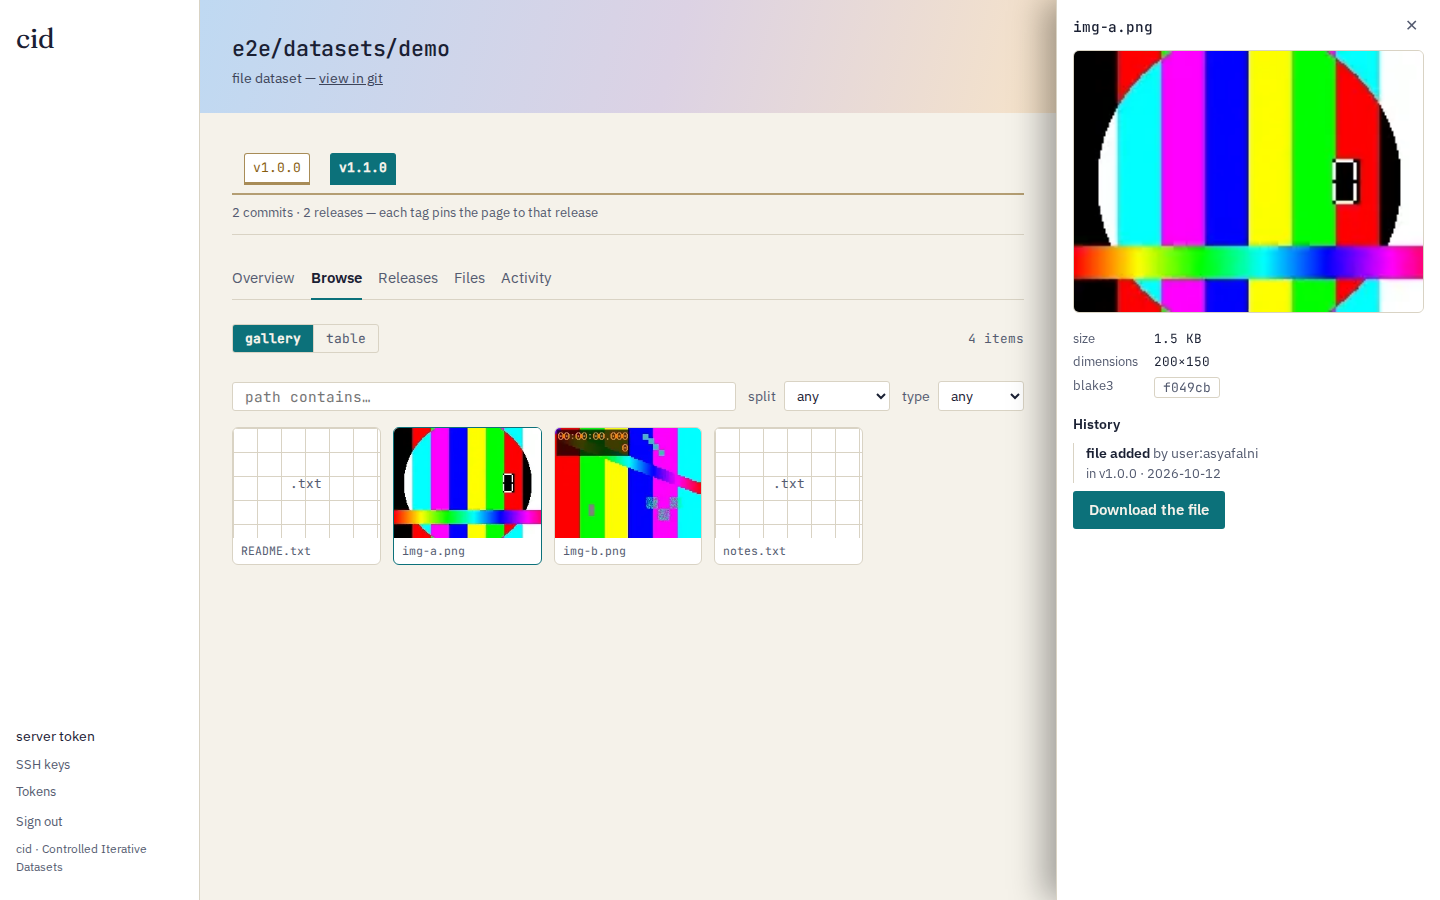
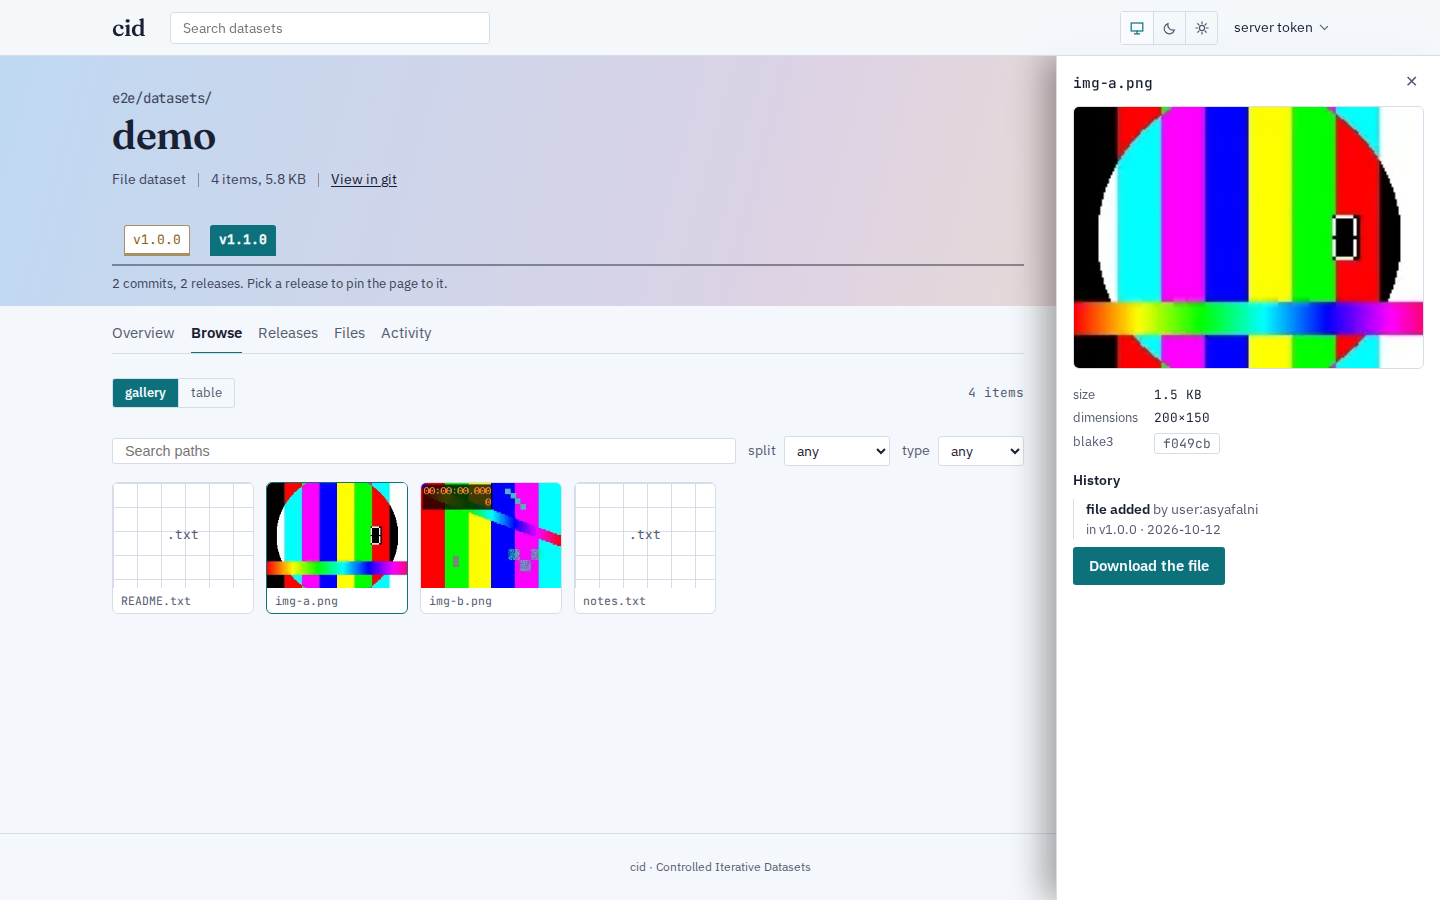
Retake the README screenshots on the redesigned dashboard
The earlier set showed the sidebar layout the redesign replaced. The
new set adds the home in both themes and the 404 page, and shows the
overview's look inside and the compare's new summary.

diff --git a/README.md b/README.md
@@ -38,7 +38,19 @@ If you know git, you already know cid: `add`, `commit`, `push`, `pull`, `checkou
 
 The cid server also serves a web dashboard for browsing, comparing and downloading
 datasets. It shows media as media and every change between two versions, and every view
-is a link. It changes no data. Design: [`docs/dashboard.md`](docs/dashboard.md).
+is a link. It changes no data. Two themes, Night flight and Daybreak, follow the system
+or the switch in the top bar. Design: [`docs/dashboard.md`](docs/dashboard.md).
+
+**Every dataset on the server**, led by its own previews (type tiles for data that is not visual).
+
+| Night flight | Daybreak |
+|---|---|
+| ![The datasets home in the dark theme: a sky with the search, then dataset cards](docs/screenshots/home-night.png) | ![The datasets home in the light theme](docs/screenshots/home-daybreak.png) |
+
+**A dataset:** its releases in the header, a look inside, and the exact `cid clone`
+command for any format or subset.
+
+![A dataset's overview: the release tape, sample items with their boxes, the card and the clone command](docs/screenshots/overview.png)
 
 **Compare two releases of an annotated dataset:** the moved box, old (dashed) beside new.
 
@@ -54,13 +66,12 @@ is a link. It changes no data. Design: [`docs/dashboard.md`](docs/dashboard.md).
 |---|---|
 | ![Browsing a file dataset in the dark theme](docs/screenshots/browse-night.png) | ![Browsing a file dataset in the light theme](docs/screenshots/browse-daybreak.png) |
 
-**Overview:** what the dataset holds, and the exact `cid clone` command for any format or subset.
+**Sign-in** with GitLab, or with the server's token when GitLab sign-in is not set up;
+and where an unknown address lands.
 
-![A dataset's overview: its card and the clone command](docs/screenshots/overview.png)
-
-**Sign-in:** with GitLab, or with the server's token when GitLab sign-in is not set up.
-
-![The sign-in page](docs/screenshots/signin.png)
+| Sign-in | Lost in the clouds |
+|---|---|
+| ![The sign-in page](docs/screenshots/signin.png) | ![The 404 page: Lost in the clouds](docs/screenshots/lost-in-the-clouds.png) |
 
 ## Status
 
